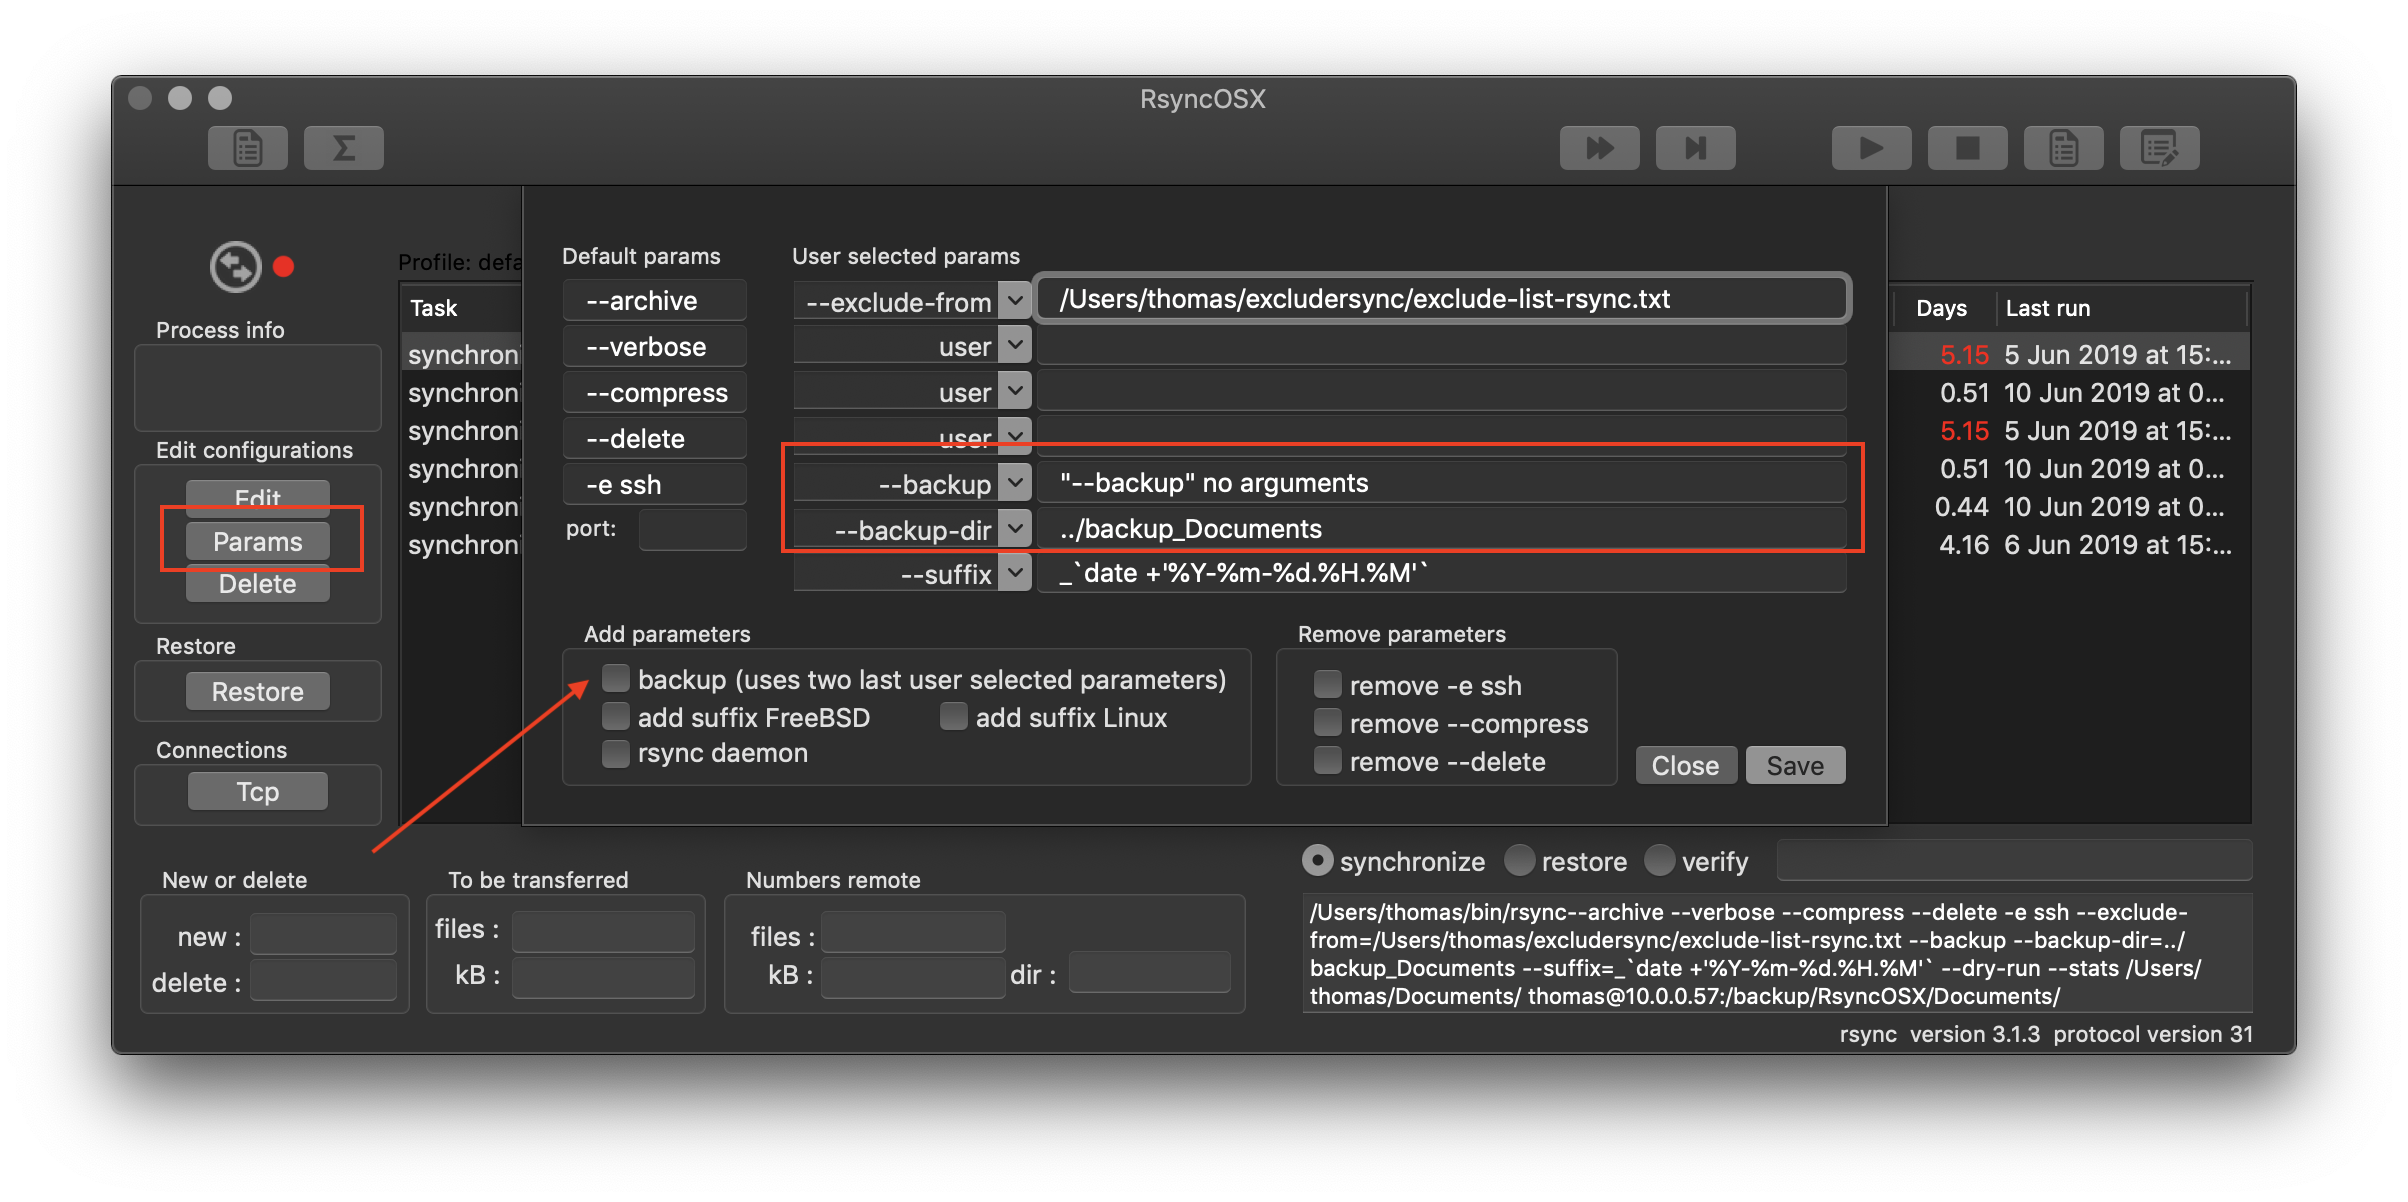
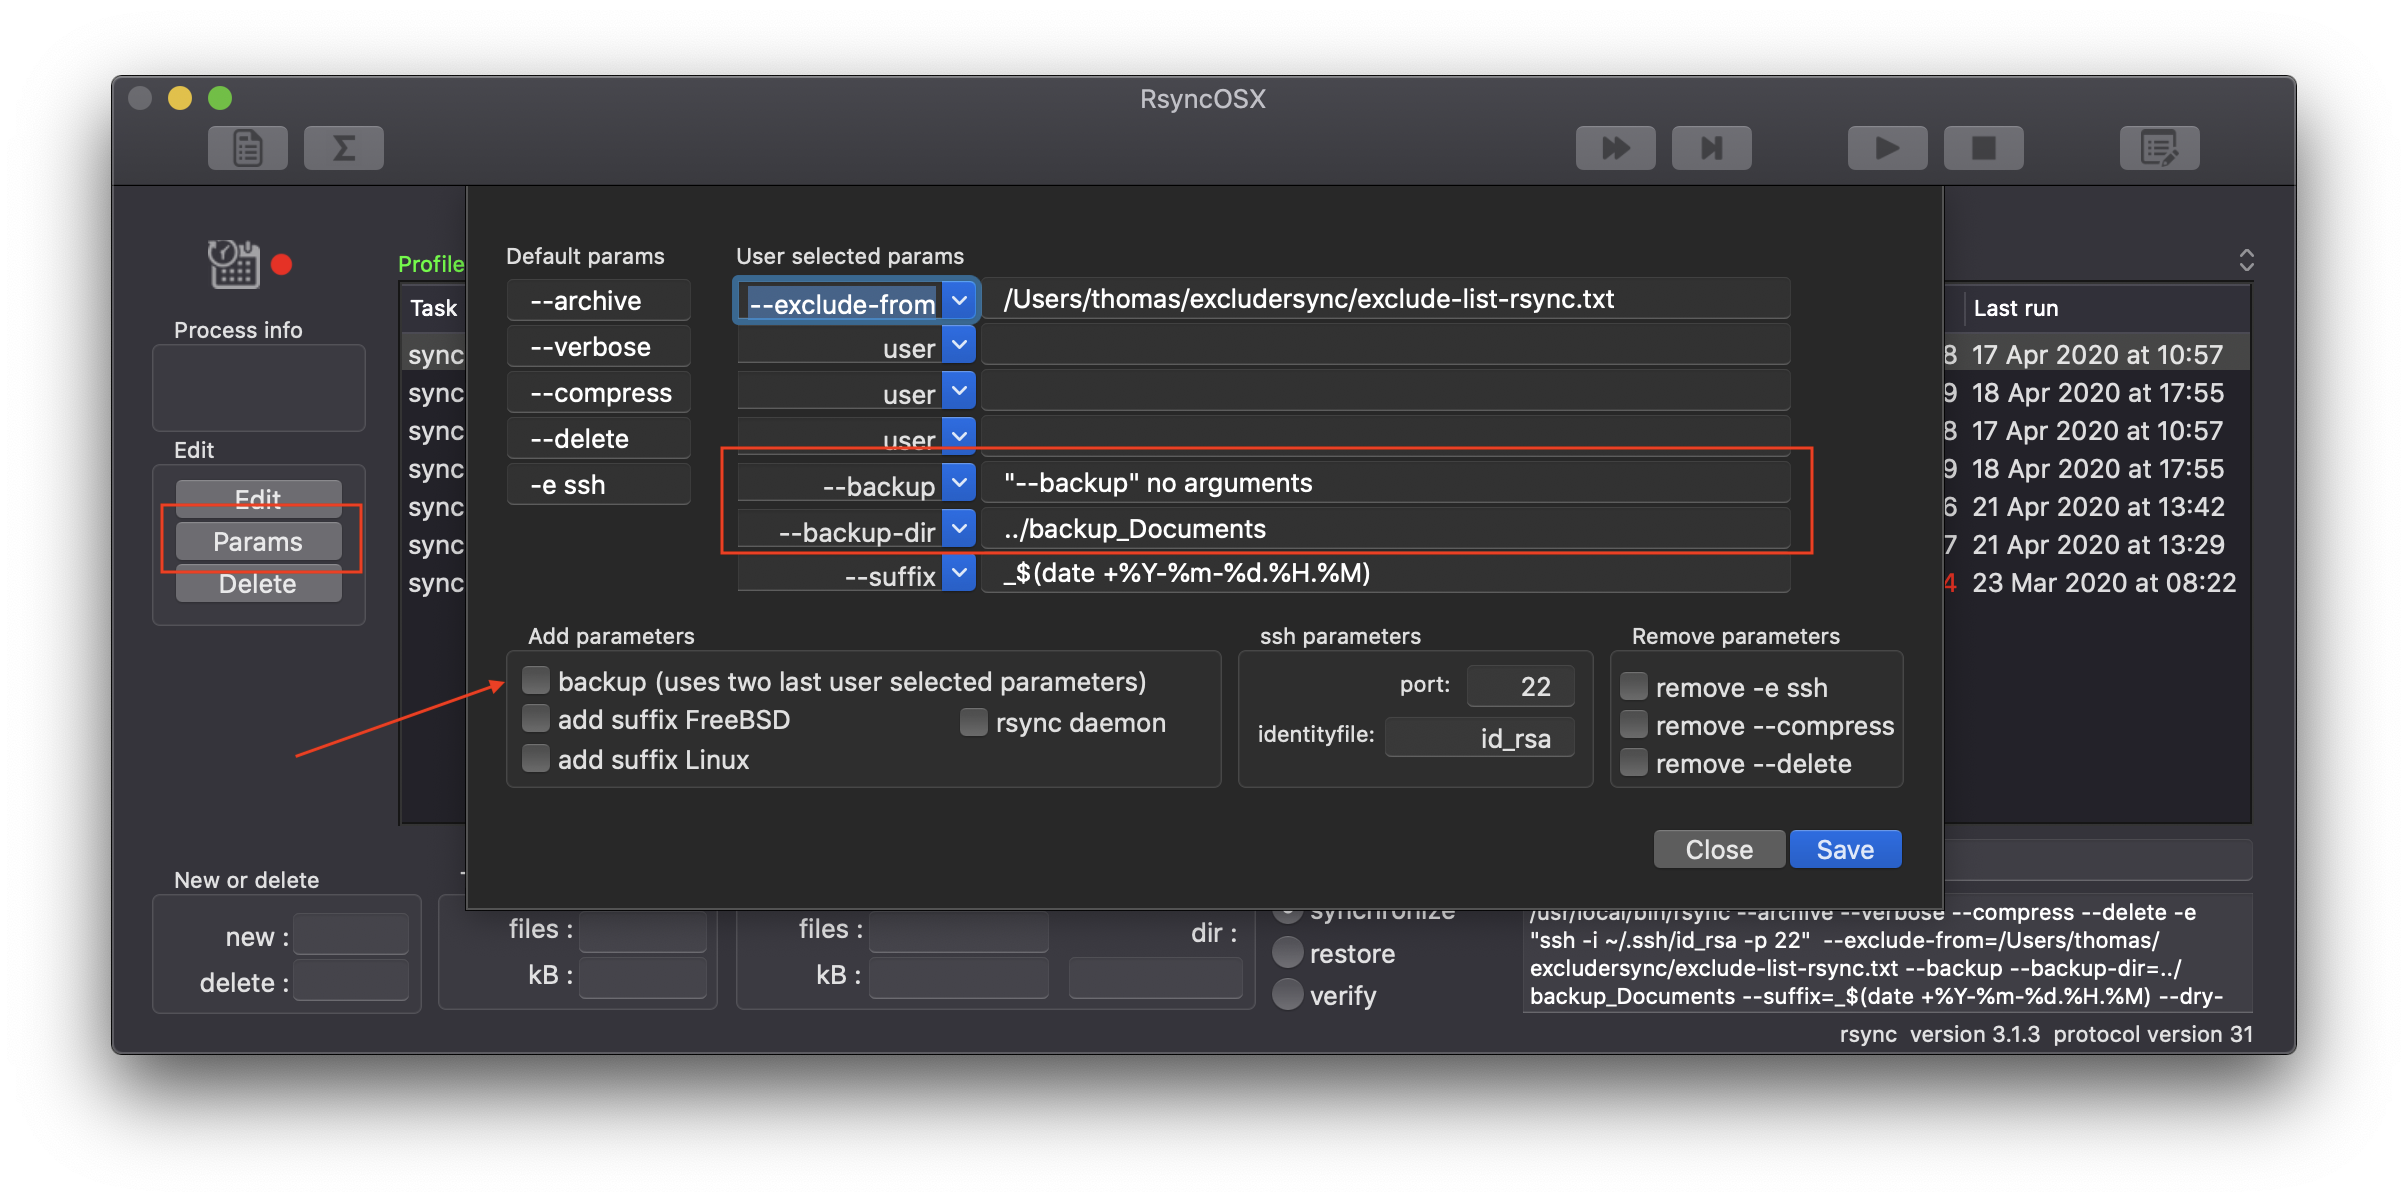
update

diff --git a/content/post/RsyncParameters.md b/content/post/RsyncParameters.md
@@ -5,6 +5,8 @@ title:  "RsyncOSX default parameters"
 ---
 RsyncOSX implements default parameters which are working fine for simple synchronize and restore tasks. The actual parameters used in tasks is depended upon executing rsync over **network connection** or not. Which standard parameters to use is computed during startup of application by reading the configuration file.
 
+![](/images/RsyncOSX/master/userparameters/userparameters.png)
+
 RsyncOSX does also facilitate user selected parameters. User selected parameters are stored by each task and set by user, see [user selected parameters](/post/userparameters/).
 
 ## Standard parameters all tasks
@@ -29,3 +31,12 @@ The following parameters are for networked tasks only. A networked task is a tas
 	- to ensure rsync tunnels traffic through a ssh-tunnel, applies only if there is a remote server
 - -e "ssh -p nn"
 	- choose another port nn if standard port 22 is not used, enable by setting port number in parameters, applies only if remote server
+
+## Ssh parameters
+
+There is two parameters to set for ssh.
+
+- ssh port
+	- set if ssh uses other port than standard port 22
+- ssh identityfile
+	- the ssh identity file, normally this is either id_dsa or id_rsa, set name only if other identity file to be used by ssh

diff --git a/content/post/Userparameters.md b/content/post/Userparameters.md
@@ -3,7 +3,6 @@ type: post
 date: 2020-04-16T09:34:29+02:00
 title:  "Parameters to rsync"
 ---
-
 The website LibreByte has written an article [16 Practical examples of the rsync command](http://www.librebyte.net/en/gnulinux/14-practical-examples-of-the-rsync-command/). One of the examples is instructing rsync to store backups of files in a backup folder and rename old files by a date suffix. Rsync utilizes a ton of parameters. RsyncOSX has only presented a few. Parameters are normally constructed as:
 
 - --parameter=value
